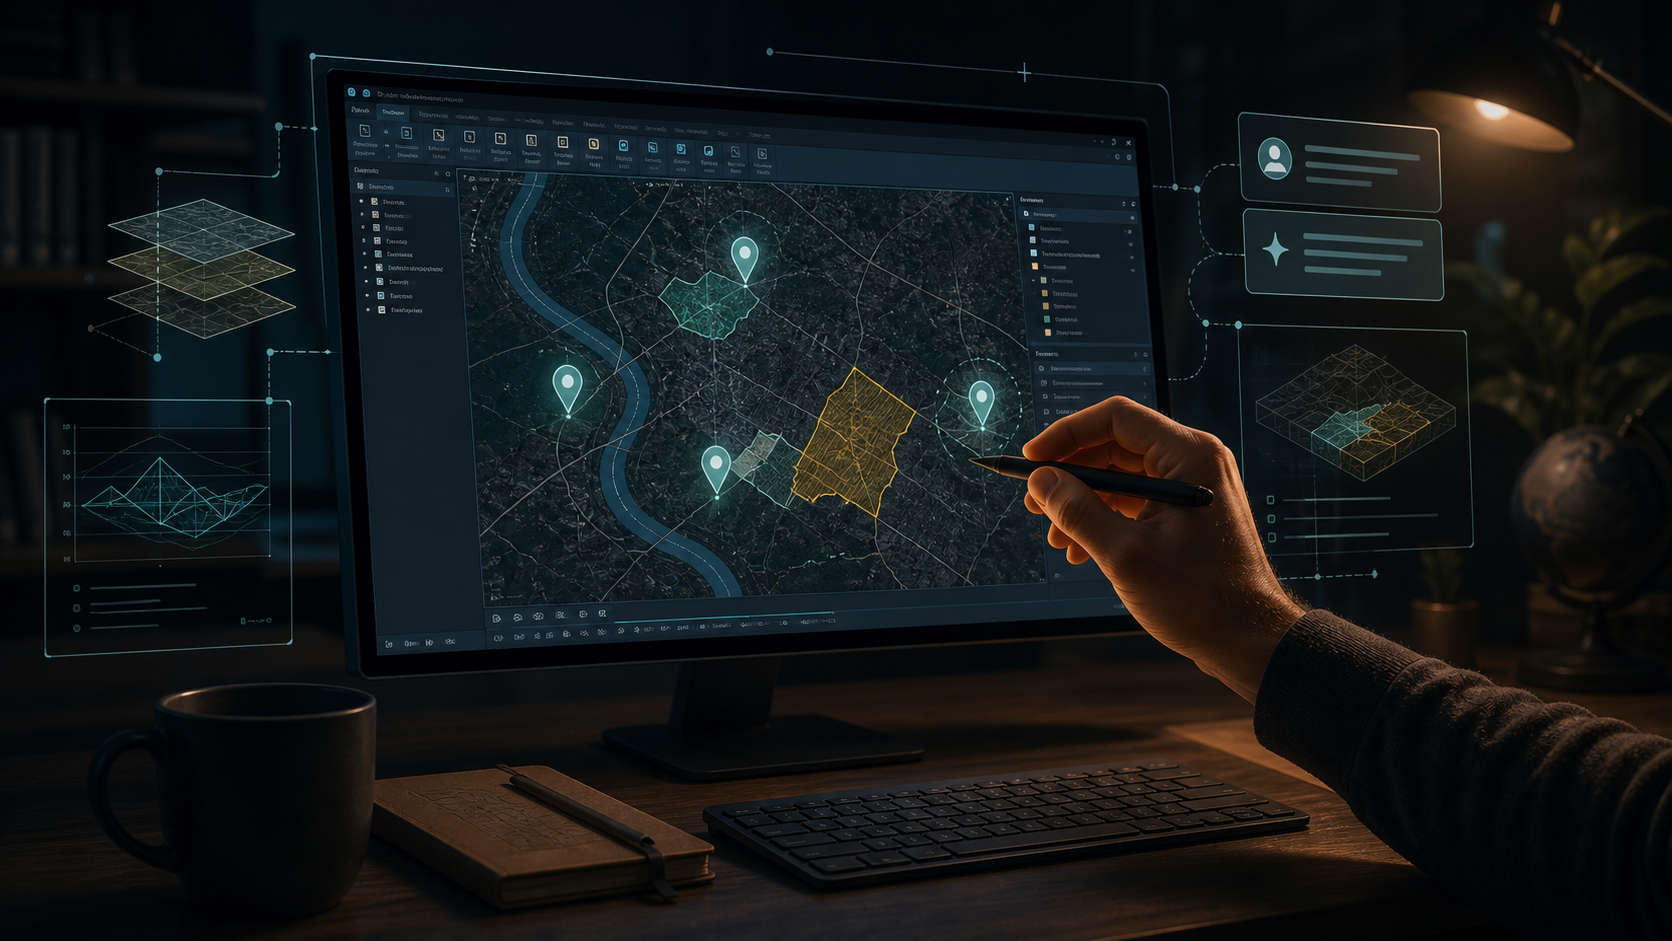
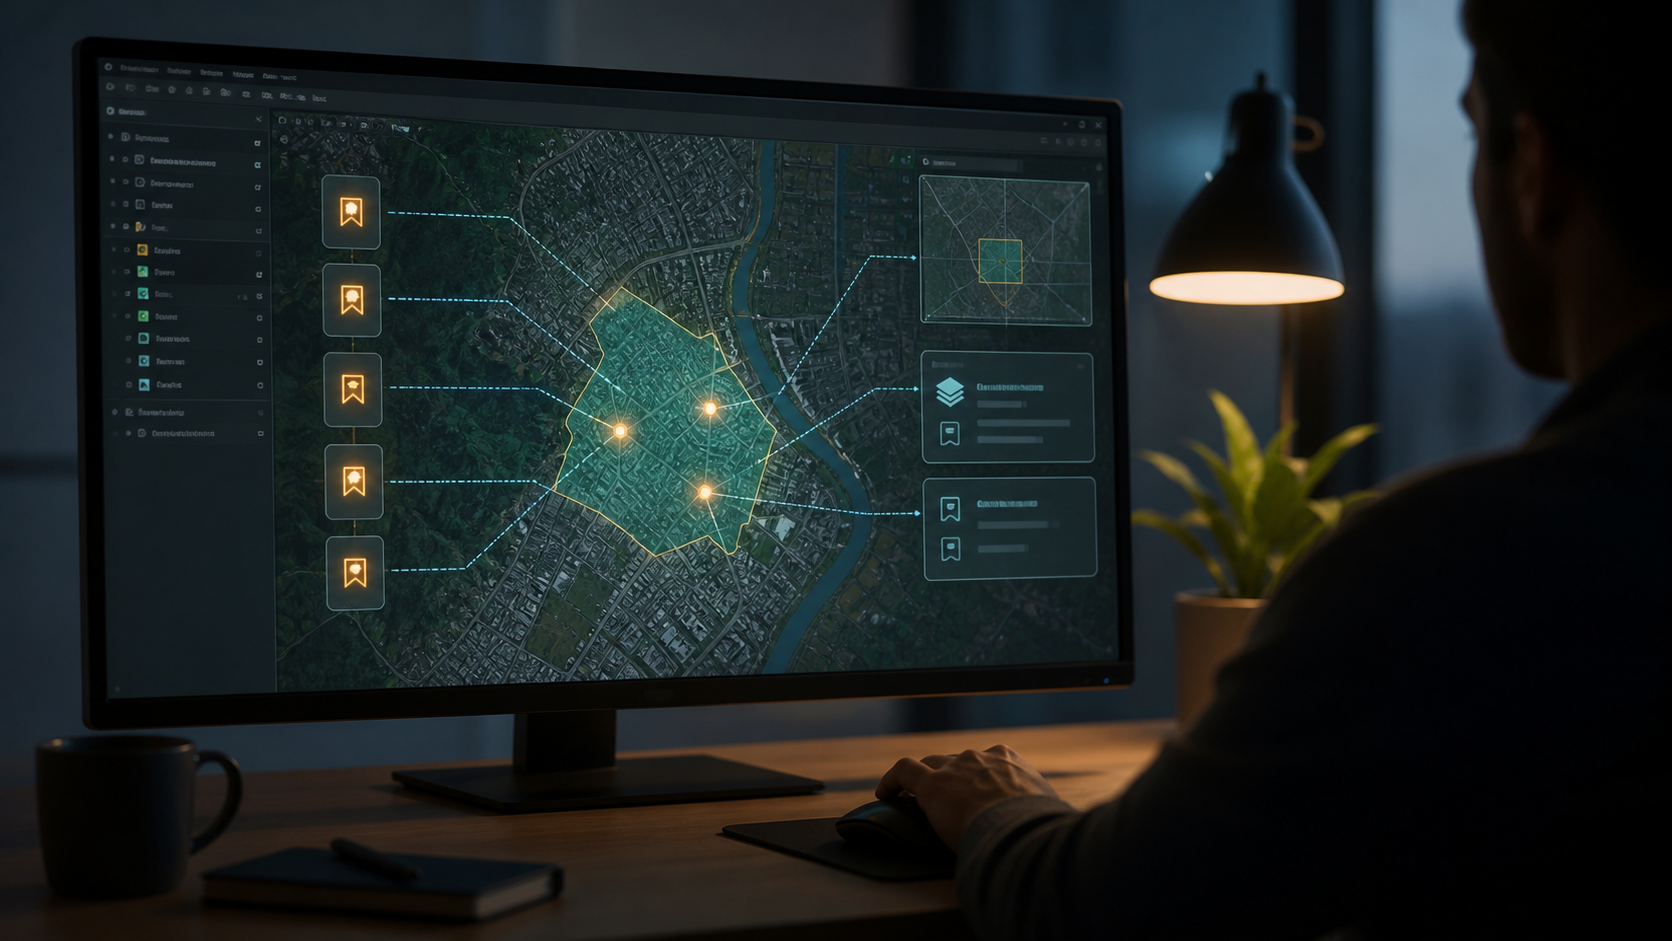
revise: remove pen metaphor from ai collaboration draft

diff --git a/docs/post/2026-08-13-when-one-agent-is-enough.html b/docs/post/2026-08-13-when-one-agent-is-enough.html
@@ -4,7 +4,7 @@
     <meta charset="UTF-8">
     <meta name="viewport" content="width=device-width, initial-scale=1.0">
     <meta name="darkreader-lock">
-    <title>The Machine Set Me Up. I Kept the Pen.</title>
+    <title>AI Can Set the Stage. I Still Make the Call.</title>
 
     <!-- Bootstrap CSS -->
     <link href="https://stackpath.bootstrapcdn.com/bootstrap/4.5.2/css/bootstrap.min.css" rel="stylesheet">
@@ -132,7 +132,7 @@ span.linenos.special { color: #000000; background-color: #ffffc0; padding-left: 
         <span class="post-kicker">AI</span>
     </div>
     
-    <h1>The Machine Set Me Up. I Kept the Pen.</h1>
+    <h1>AI Can Set the Stage. I Still Make the Call.</h1>
     <div class="post-meta-bar">
         
         <time datetime="2026-08-13">August 13, 2026</time>
@@ -155,7 +155,7 @@ span.linenos.special { color: #000000; background-color: #ffffc0; padding-left: 
 <!-- Article body -->
 <article class="post-reading">
     <p>I am getting more interested in a narrower and more practical question than "what can AI do?"</p>
-<p><img src="/static/images/the-machine-set-me-up-i-kept-the-pen-hero.png" alt="Editorial illustration of a map workspace where AI has staged the right view and bookmarks while a human hand keeps the final pen stroke" style="width:100%; display:block; margin: 12px 0 18px 0; border-radius: 12px;" /></p>
+<p><img src="/static/images/the-machine-set-me-up-i-kept-the-pen-hero.png" alt="Editorial illustration of a GIS workspace where AI has prepared the right map view and bookmarks while the human remains responsible for the final decision" style="width:100%; display:block; margin: 12px 0 18px 0; border-radius: 12px;" /></p>
 <p>The better question is:</p>
 <p><strong>what is the right working relationship between me and the system?</strong></p>
 <p>I keep seeing people frame AI adoption as a question of replacement.<br />
@@ -226,8 +226,8 @@ Then let me make the move that actually matters.</p>
 The value was not that the AI completed the work.<br />
 The value was that it made the work feel almost ready before I touched it.</p>
 <p>I think that is a more honest and more durable model of adoption than a lot of the louder autonomy rhetoric.</p>
-<p>The machine set me up.<br />
-I kept the pen.</p>
+<p>The AI set the stage.<br />
+I still made the call.</p>
 </article>
 
 <!-- Tags -->

diff --git a/docs/drafts.html b/docs/drafts.html
@@ -55,7 +55,7 @@ Drafts
         <span class="home-post-date">August 13, 2026</span>
       </div>
       <h2 class="home-post-title">
-        <a href="/post/2026-08-13-when-one-agent-is-enough.html" class="home-post-link">The Machine Set Me Up. I Kept the Pen.</a>
+        <a href="/post/2026-08-13-when-one-agent-is-enough.html" class="home-post-link">AI Can Set the Stage. I Still Make the Call.</a>
       </h2>
       <div class="home-post-tags">
         

diff --git a/posts/2026-08-13-when-one-agent-is-enough.md b/posts/2026-08-13-when-one-agent-is-enough.md
@@ -1,5 +1,5 @@
 ---
-title: "The Machine Set Me Up. I Kept the Pen."
+title: "AI Can Set the Stage. I Still Make the Call."
 date: 2026-08-13
 tags:
 - Draft
@@ -12,7 +12,7 @@ layout: rich
 
 I am getting more interested in a narrower and more practical question than "what can AI do?"
 
-<img src="/static/images/the-machine-set-me-up-i-kept-the-pen-hero.png" alt="Editorial illustration of a map workspace where AI has staged the right view and bookmarks while a human hand keeps the final pen stroke" style="width:100%; display:block; margin: 12px 0 18px 0; border-radius: 12px;" />
+<img src="/static/images/the-machine-set-me-up-i-kept-the-pen-hero.png" alt="Editorial illustration of a GIS workspace where AI has prepared the right map view and bookmarks while the human remains responsible for the final decision" style="width:100%; display:block; margin: 12px 0 18px 0; border-radius: 12px;" />
 
 The better question is:
 
@@ -115,5 +115,5 @@ The value was that it made the work feel almost ready before I touched it.
 
 I think that is a more honest and more durable model of adoption than a lot of the louder autonomy rhetoric.
 
-The machine set me up.
-I kept the pen.
+The AI set the stage.
+I still made the call.
